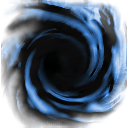
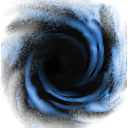
added black hole to cluster display

diff --git a/src/SpacePanel.java b/src/SpacePanel.java
@@ -164,6 +164,12 @@ public class SpacePanel extends JPanel
 		  center.setBounds(0, 0, DEFAULT_WINDOW_SIZE, DEFAULT_WINDOW_SIZE);
 		  this.add(center);
 	  }
+	  if (locations[0].getParent().whatAmI() == 1)
+	  {
+		  JLabel singularity = new JLabel(new ImageIcon(locations[0].getParent().GetCenterImage()));
+		  singularity.setBounds(SHIFT - 64, SHIFT - 64,	128, 128);
+		  this.add(singularity);
+	  }
   }
 
   private class LocationListener implements ActionListener
